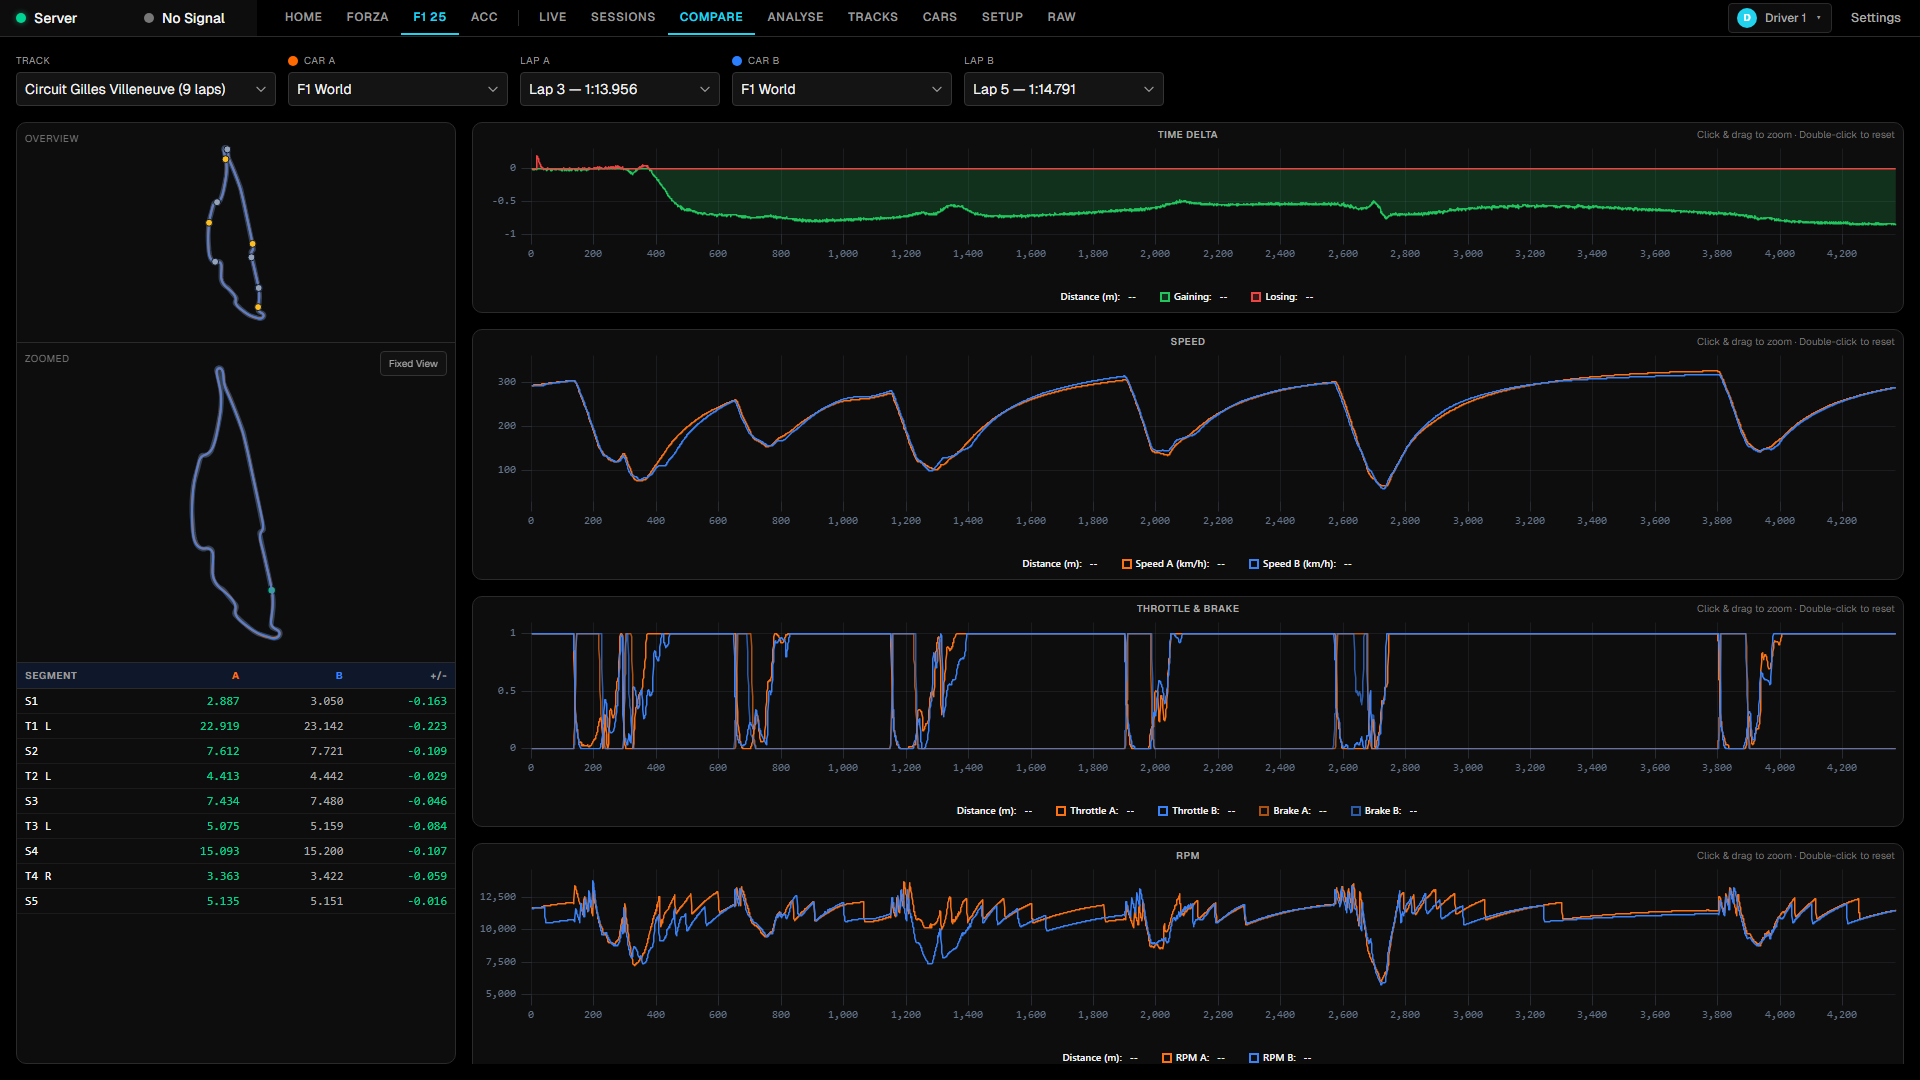
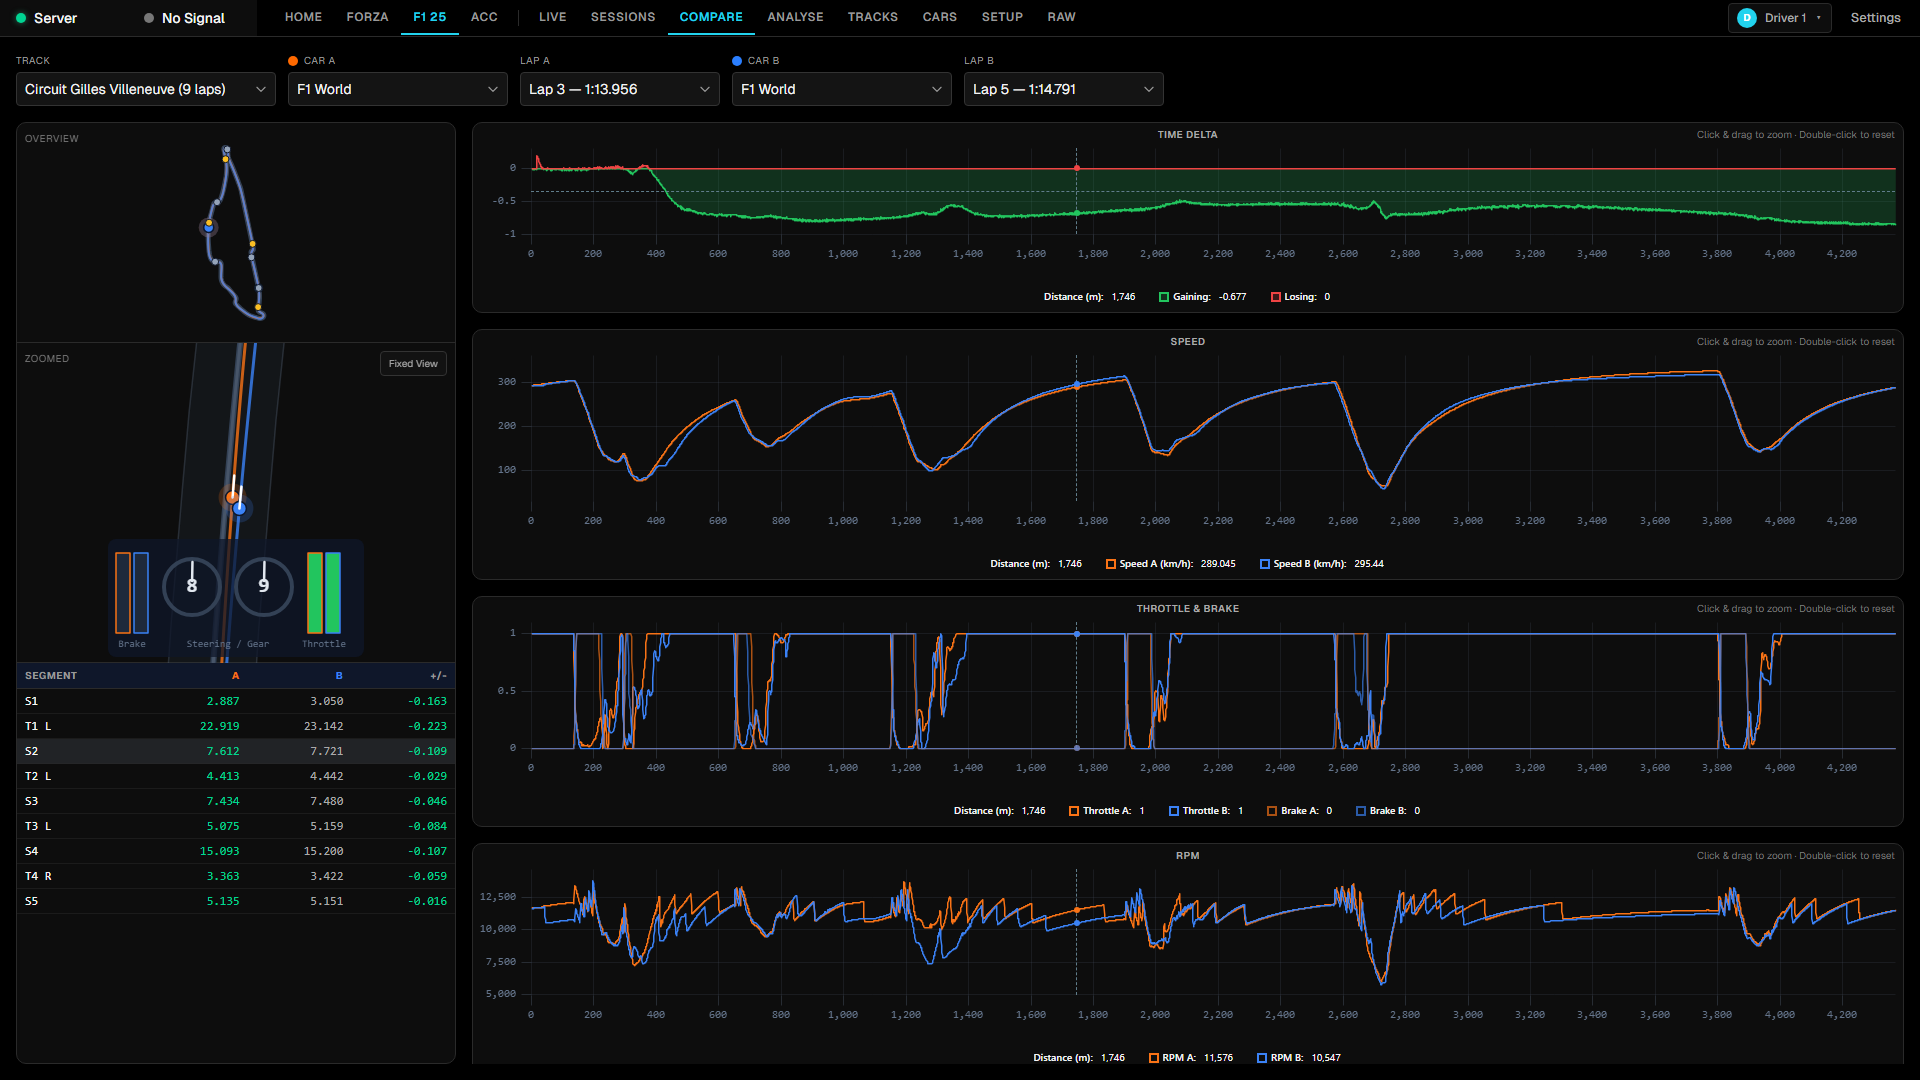
fix: use mouse hover for compare cursor in screenshots
The uplot cursor sync requires actual mouse events, not just setting
a ref value. Screenshots now hover over the first chart at 40% to
activate crosshairs across all synced charts and the track map.

diff --git a/screenshots/marketing.spec.ts b/screenshots/marketing.spec.ts
@@ -3,7 +3,7 @@ import { test } from "@playwright/test";
 const PAGES = [
   { name: "home", path: "/" },
   { name: "lap-analytics", path: "/f125/analyse?track=6&car=41&lap=257&cursor=500" },
-  { name: "compare", path: "/f125/compare?track=6&carA=41&lapA=258&carB=41&lapB=260&cursor=400" },
+  { name: "compare", path: "/f125/compare?track=6&carA=41&lapA=258&carB=41&lapB=260", hover: ".u-over" },
   { name: "tracks", path: "/f125/tracks" },
   { name: "car-catalogue-f125-grid", path: "/f125/cars" },
   { name: "car-catalogue-forza", path: "/fm23/cars" },
@@ -19,6 +19,16 @@ for (const page of PAGES) {
     );
     await p.goto(page.path, { waitUntil: "networkidle" });
     await p.waitForTimeout(1500);
+    // Hover over a chart element to activate cursor crosshairs
+    if ("hover" in page && page.hover) {
+      const el = p.locator(page.hover).first();
+      await el.waitFor({ state: "visible", timeout: 5000 }).catch(() => {});
+      const box = await el.boundingBox();
+      if (box) {
+        await p.mouse.move(box.x + box.width * 0.4, box.y + box.height * 0.5);
+        await p.waitForTimeout(300);
+      }
+    }
     await p.screenshot({
       path: `assets/screenshots/${page.name}.png`,
       fullPage: false,
